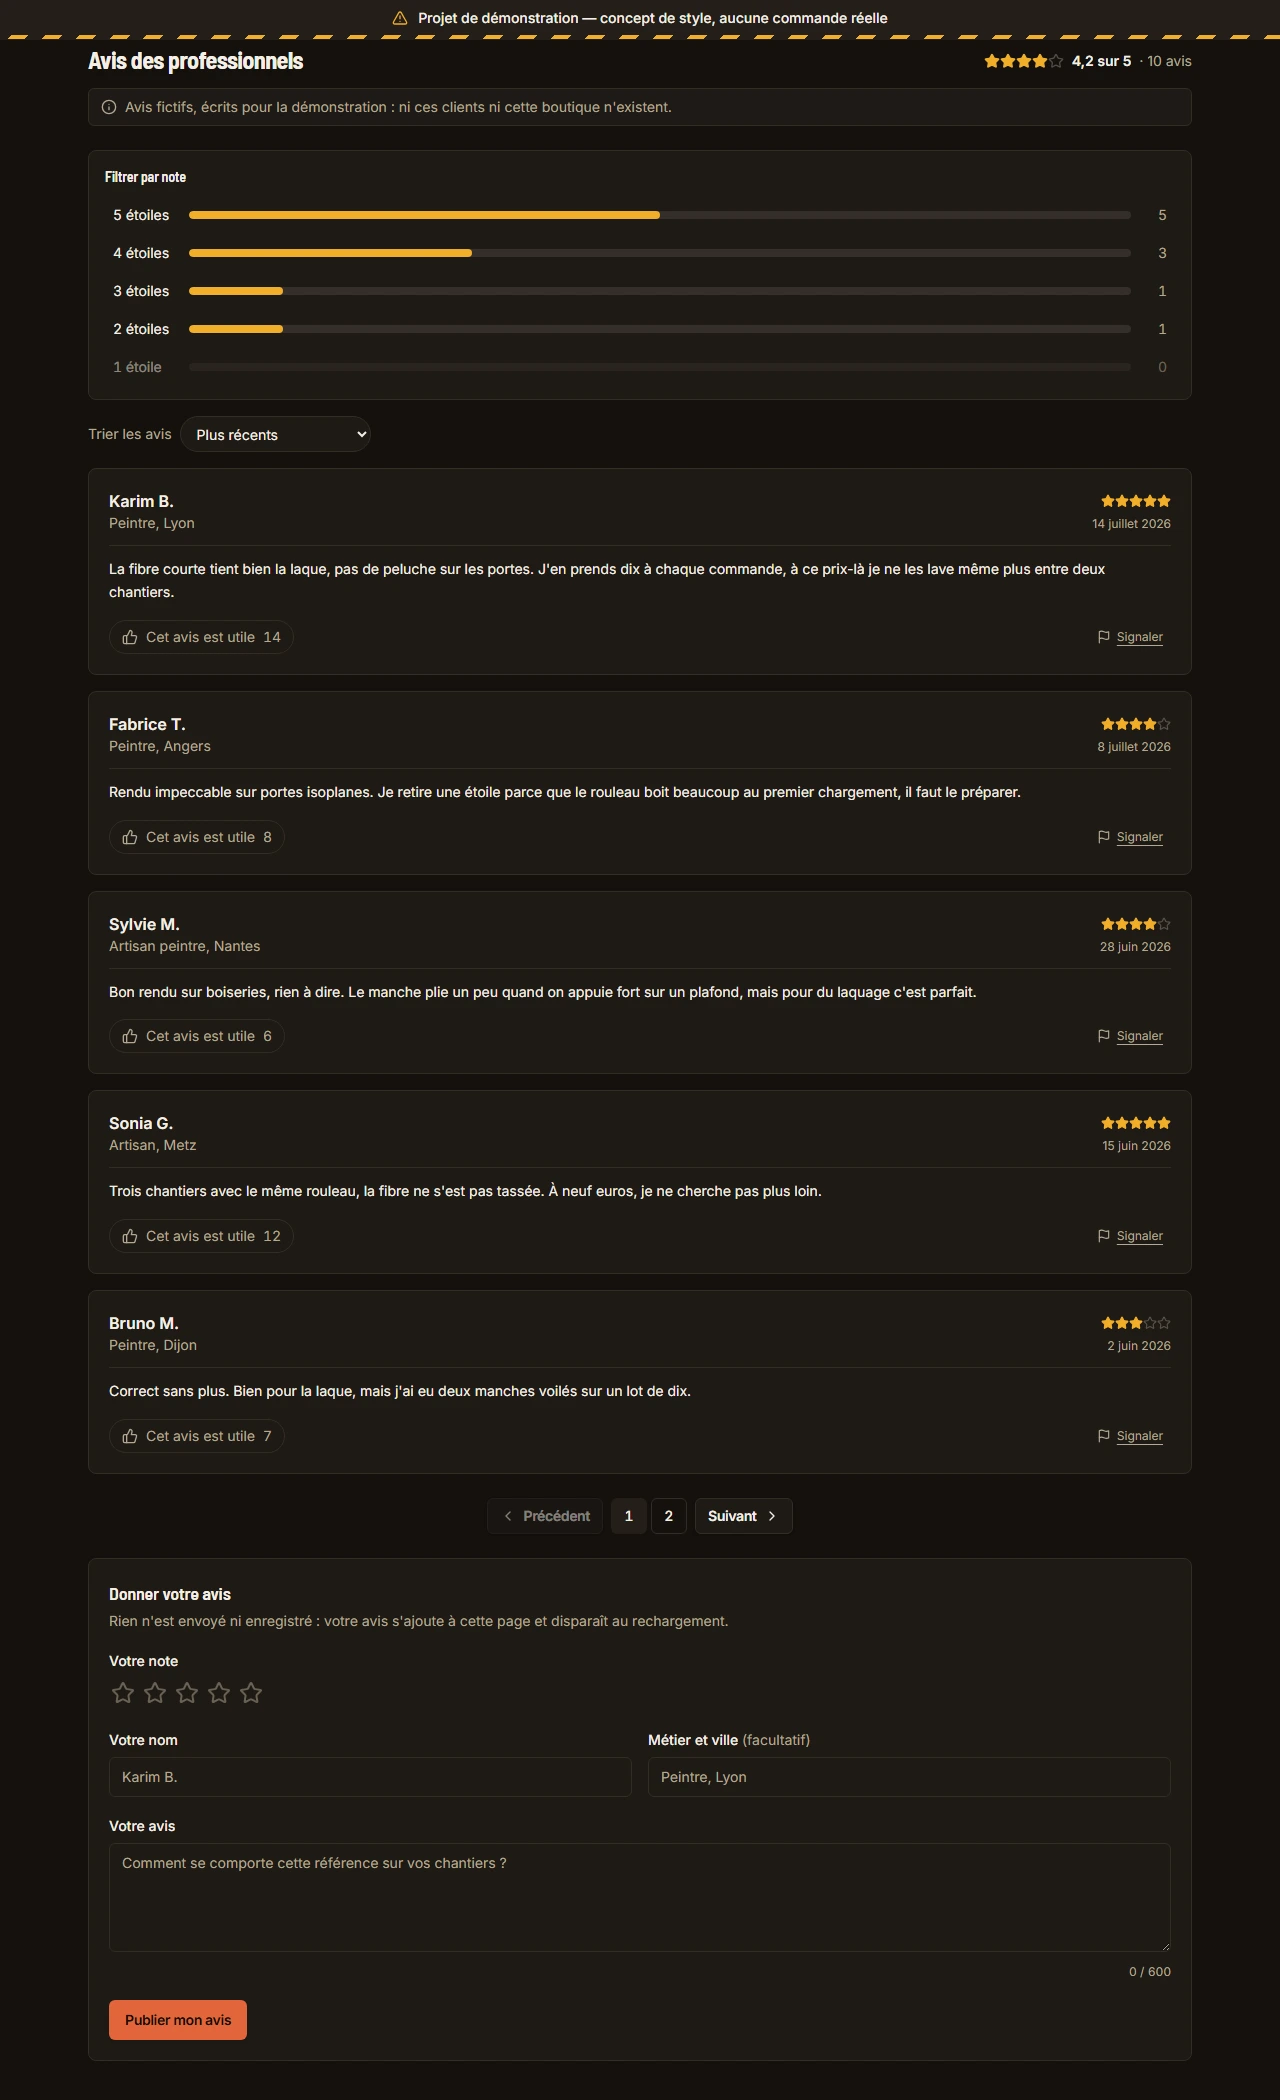
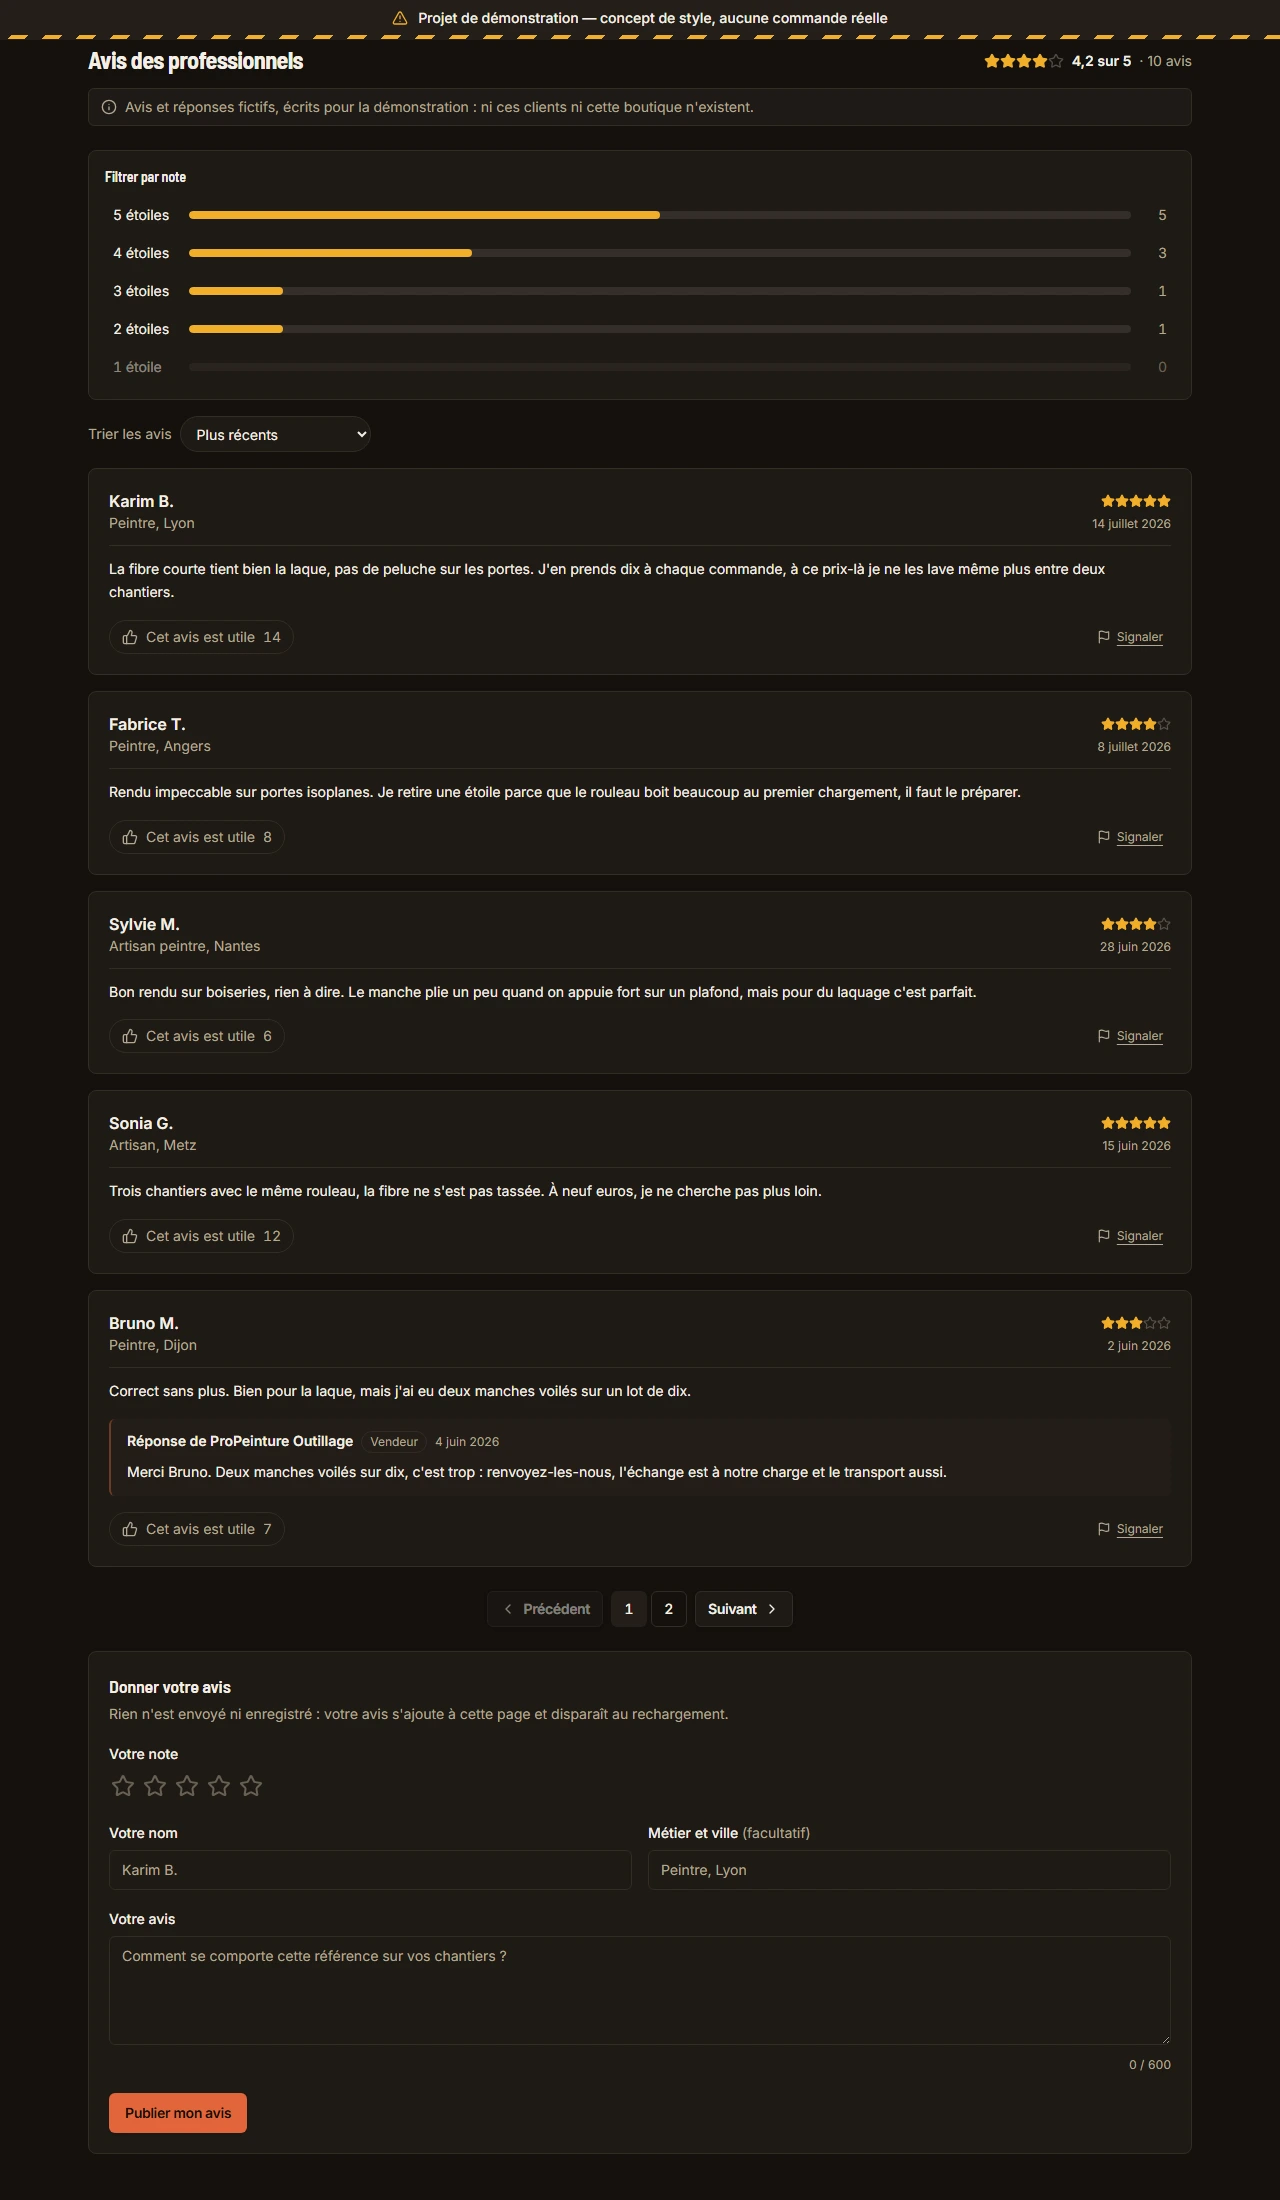
Ajoute les réponses du vendeur sous les avis
Champ facultatif sur l'avis : un vendeur ne répond pas à tout, et une
réponse sous chacun sonnerait faux. Quatre avis mitigés en portent une,
datée après l'avis.

Le bloc est décalé sous l'avis auquel il répond, pour qu'on ne prenne pas
la parole de la boutique pour celle du client, et la rangée d'actions
reste dessous : elle porte sur l'avis.

La mention de démonstration couvre maintenant les réponses, et la capture
des avis gagne 100 px, la section ayant grandi.

diff --git a/src/data/avis.ts b/src/data/avis.ts
@@ -16,6 +16,12 @@ export type Avis = {
   texte: string
   /** Nombre de personnes ayant trouvé l'avis utile. Fictif lui aussi. */
   utiles: number
+  /**
+   * Réponse publique de la boutique, quand elle en a fait une. Facultative :
+   * un vendeur ne répond pas à tout, et une réponse sous chaque avis sonnerait
+   * faux. Sa date est forcément postérieure à celle de l'avis.
+   */
+  reponse?: { date: string; texte: string }
   /** Déposé depuis la page, jamais enregistré : signalé comme tel à l'écran. */
   local?: boolean
 }
@@ -97,6 +103,11 @@ export const avis: Avis[] = [
     texte:
       "Le produit est bon mais les sacs arrivent parfois éventrés. À voir avec le transporteur, ce n'est pas la faute de l'enduit.",
     utiles: 3,
+    reponse: {
+      date: "2026-04-02",
+      texte:
+        "Merci Julien pour le signalement. Les sacs voyagent désormais filmés sur palette, et un sac éventré à la livraison est remplacé sans discussion.",
+    },
   },
   {
     id: "av-8",
@@ -119,6 +130,11 @@ export const avis: Avis[] = [
     texte:
       "Bonne tenue sur support propre. Sur crépi il faut appuyer davantage, mais c'est vrai de tous les rubans.",
     utiles: 5,
+    reponse: {
+      date: "2026-05-27",
+      texte:
+        "Merci Cédric. Sur crépi, nous conseillons plutôt notre ruban à adhérence renforcée, il pardonne les supports irréguliers.",
+    },
   },
   {
     id: "av-10",
@@ -152,6 +168,11 @@ export const avis: Avis[] = [
     texte:
       "Correct sans plus. Bien pour la laque, mais j'ai eu deux manches voilés sur un lot de dix.",
     utiles: 7,
+    reponse: {
+      date: "2026-06-04",
+      texte:
+        "Merci Bruno. Deux manches voilés sur dix, c'est trop : renvoyez-les-nous, l'échange est à notre charge et le transport aussi.",
+    },
   },
   {
     id: "av-13",
@@ -196,6 +217,11 @@ export const avis: Avis[] = [
     texte:
       "Déçu sur ce lot : la fibre s'est détachée dès le deuxième passage. Les précédents tenaient mieux, peut-être un mauvais tirage.",
     utiles: 15,
+    reponse: {
+      date: "2026-03-20",
+      texte:
+        "Bonjour Hervé, une fibre qui se détache dès le deuxième passage n'est pas normale et ce lot est parti au contrôle. Contactez-nous avec votre numéro de commande, nous vous le remplaçons.",
+    },
   },
 ]
 

diff --git a/src/components/sections/AvisClients.tsx b/src/components/sections/AvisClients.tsx
@@ -164,8 +164,8 @@ export function AvisClients({
           sérieux qu'un prix inventé. */}
       <p className="mt-3 flex items-start gap-2 rounded-md border border-border bg-muted/50 px-3 py-2 text-sm text-muted-foreground">
         <Info className="mt-0.5 size-4 shrink-0" aria-hidden="true" />
-        Avis fictifs, écrits pour la démonstration : ni ces clients ni cette
-        boutique n'existent.
+        Avis et réponses fictifs, écrits pour la démonstration : ni ces clients
+        ni cette boutique n'existent.
       </p>
 
       {tous.length > 0 && (
@@ -296,6 +296,29 @@ export function AvisClients({
                 </div>
                 <Separator className="my-3" />
                 <p className="text-sm leading-relaxed">{avis.texte}</p>
+
+                {/* Placée juste sous l'avis auquel elle répond, et décalée
+                    pour qu'on ne la confonde pas avec la parole du client. La
+                    rangée d'actions qui suit porte sur l'avis, pas sur elle. */}
+                {avis.reponse && (
+                  <div className="mt-4 rounded-md border-s-2 border-primary/40 bg-muted/40 py-3 pe-3 ps-4">
+                    <p className="flex flex-wrap items-baseline gap-x-2 gap-y-1 text-sm font-semibold">
+                      Réponse de ProPeinture Outillage
+                      <span className="rounded-full border border-border px-2 py-0.5 text-xs font-normal text-muted-foreground">
+                        Vendeur
+                      </span>
+                      <time
+                        dateTime={avis.reponse.date}
+                        className="text-xs font-normal text-muted-foreground"
+                      >
+                        {dateLongue.format(new Date(avis.reponse.date))}
+                      </time>
+                    </p>
+                    <p className="mt-2 text-sm leading-relaxed">
+                      {avis.reponse.texte}
+                    </p>
+                  </div>
+                )}
 
                 {/* Passe à la ligne plutôt que de déborder : sur mobile,
                     un avis à la fois voté et signalé ne tient pas sur une. */}

diff --git a/README.md b/README.md
@@ -25,12 +25,12 @@ porte sa photo en plein cadre, son état de stock, sa référence et son prix à
 La fiche produit, atteinte en cliquant une carte. Elle décline le prix unitaire
 à chaque palier, en euros plutôt qu'en pourcentage.
 
-![Section avis : moyenne en étoiles, mention d'avis fictifs, histogramme filtrant, sélecteur de tri, cinq avis avec boutons d'utilité et de signalement, pagination et formulaire de dépôt](docs/captures/09-avis.webp)
+![Section avis : moyenne en étoiles, mention d'avis fictifs, histogramme filtrant, sélecteur de tri, cinq avis avec boutons d'utilité et de signalement dont un suivi d'une réponse du vendeur, pagination et formulaire de dépôt](docs/captures/09-avis.webp)
 
 Les avis, en bas de fiche : histogramme des notes qui sert de filtre, tri,
-liste avec boutons d'utilité et de signalement, pagination et formulaire de
-dépôt. La mention d'avis fictifs est en clair au-dessus, et le formulaire
-annonce avant la saisie que rien n'est envoyé.
+liste avec boutons d'utilité et de signalement, réponses du vendeur,
+pagination et formulaire de dépôt. La mention d'avis fictifs est en clair
+au-dessus, et le formulaire annonce avant la saisie que rien n'est envoyé.
 
 ![Panneau panier ouvert : deux lignes avec photo et sélecteur de quantité, jauge vers le palier suivant, remise artisan appliquée au total](docs/captures/05-panier.webp)
 
@@ -142,6 +142,13 @@ Chaque avis porte un bouton « Cet avis est utile » avec son compteur. Le vote
 bascule au second clic, incrémente le compteur affiché et signale « Compté
 seulement ici » — rien n'est envoyé, comme le reste de la maquette. Un avis
 déposé depuis la page démarre à zéro.
+
+Quatre avis portent une réponse publique de la boutique, décalée sous l'avis
+auquel elle répond et signée d'un badge « Vendeur ». Le champ est facultatif :
+un vendeur ne répond pas à tout, et une réponse sous chaque avis sonnerait
+faux. Ce sont les avis mitigés qui en reçoivent une, comme sur une vraie
+vitrine, avec une date forcément postérieure à celle de l'avis. La rangée
+d'actions reste sous la réponse : elle porte sur l'avis, pas sur elle.
 
 Un lien « Signaler » discret, aligné à droite, complète la rangée. Il n'y a
 aucune modération derrière : l'avis reste affiché et la mention « Signalé, rien
